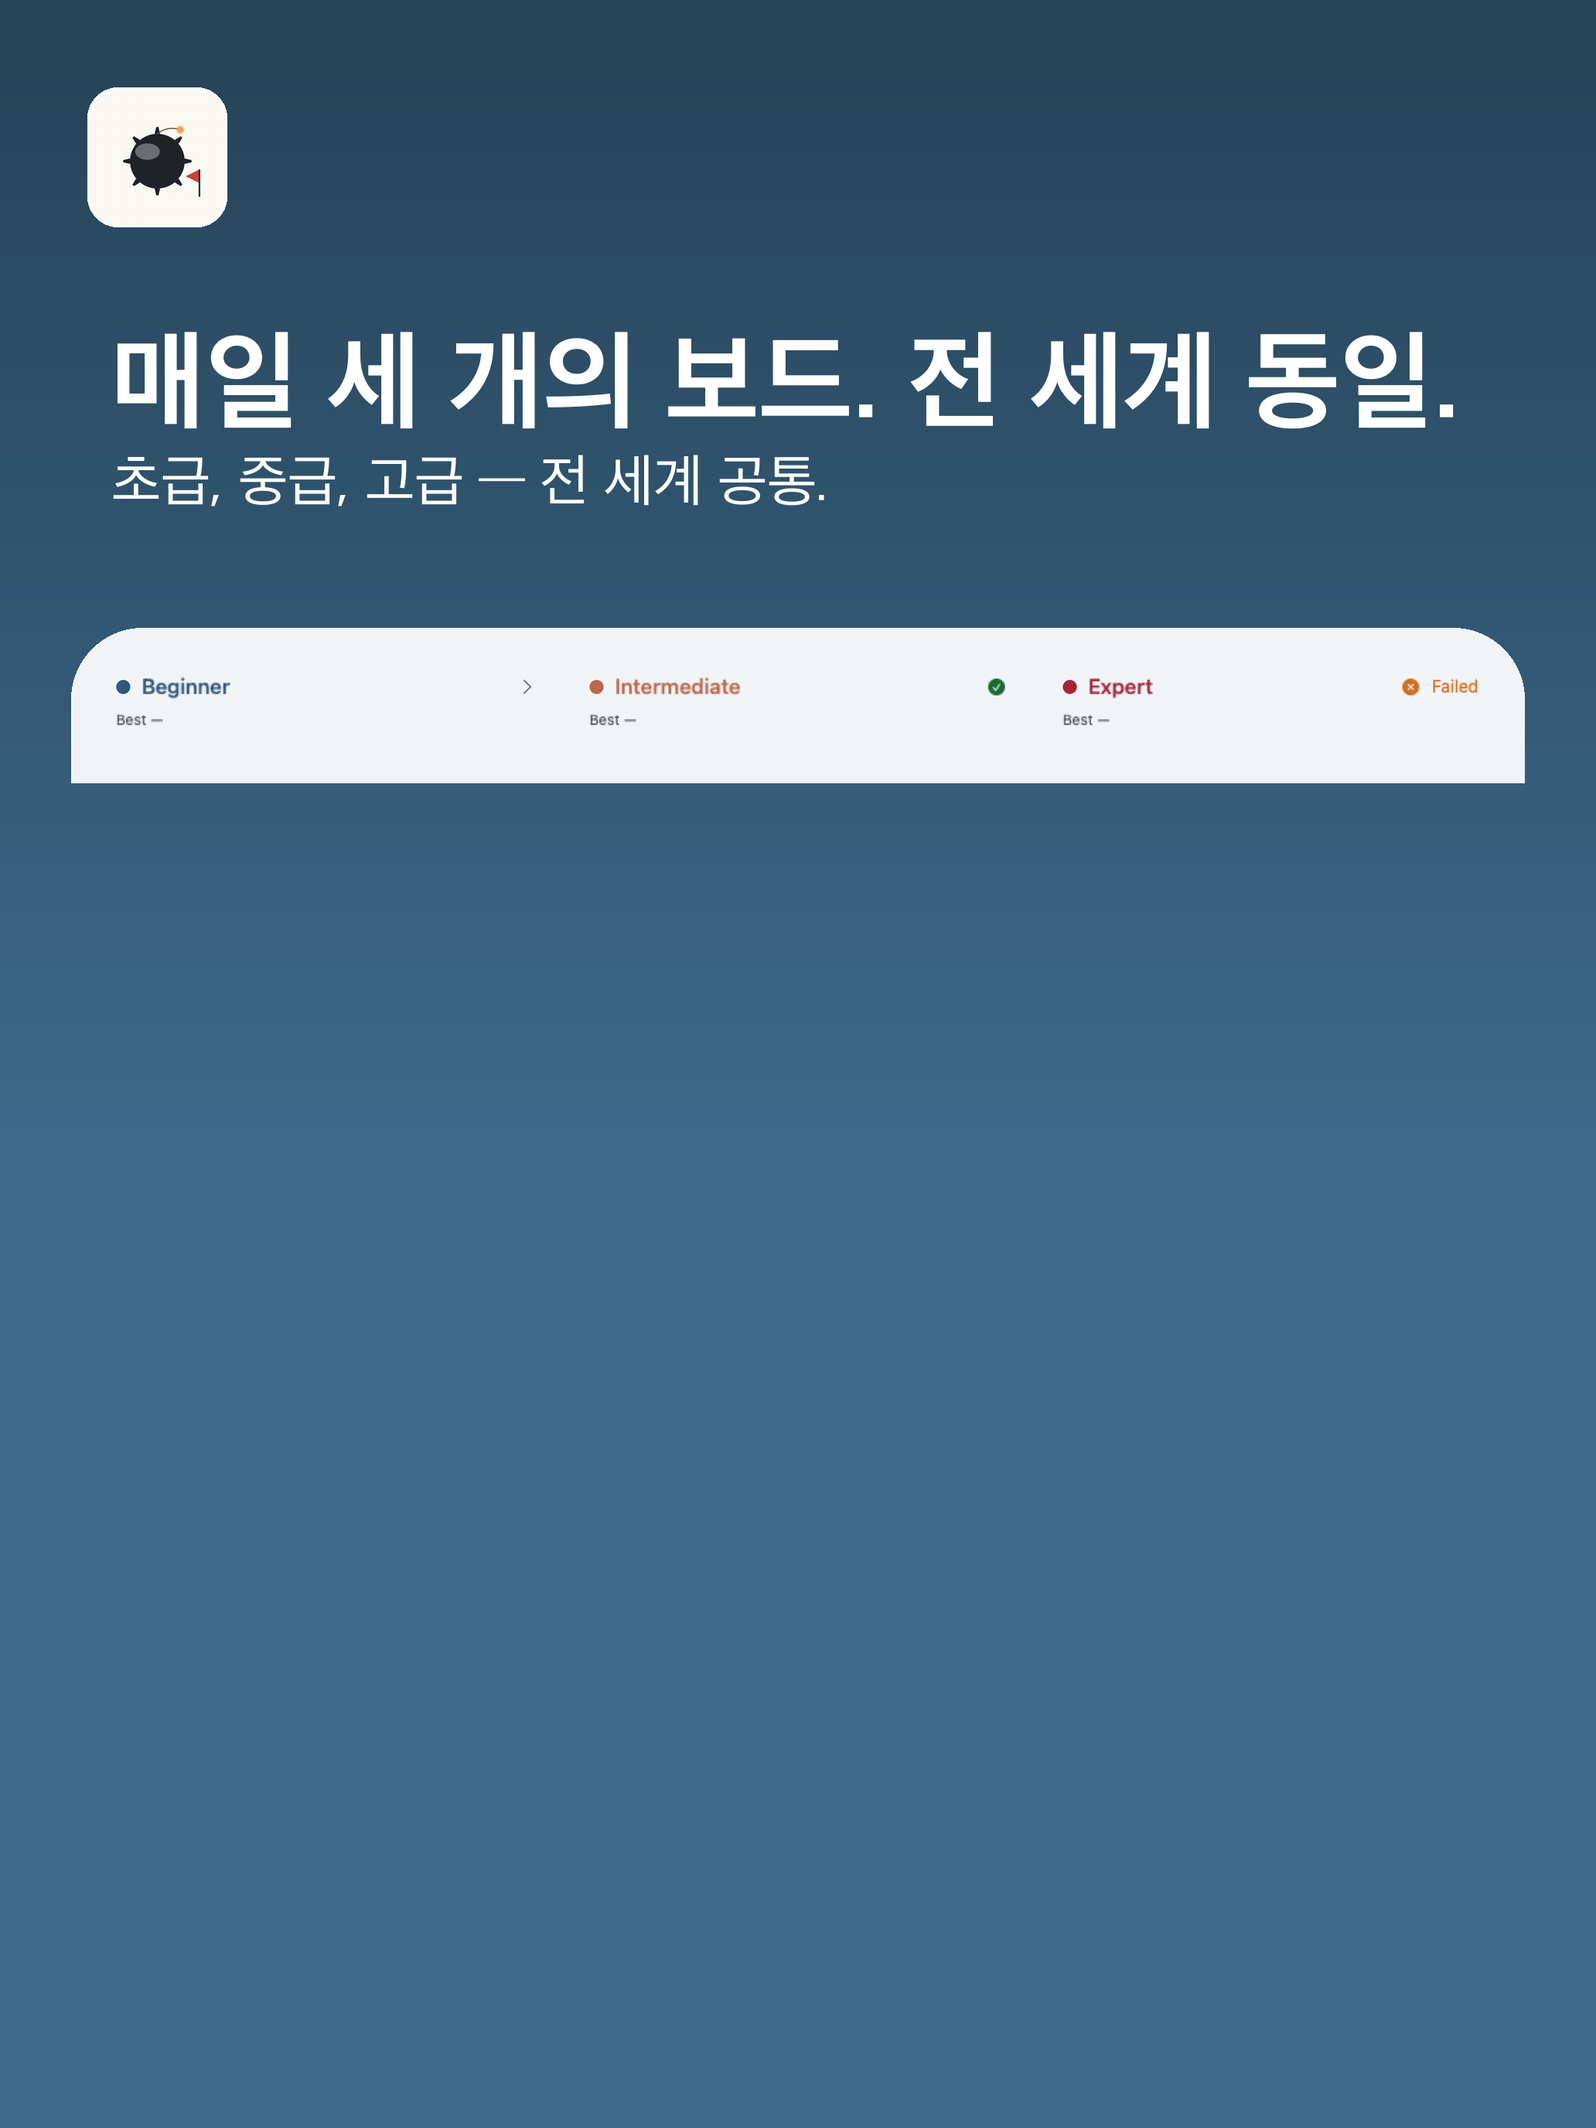
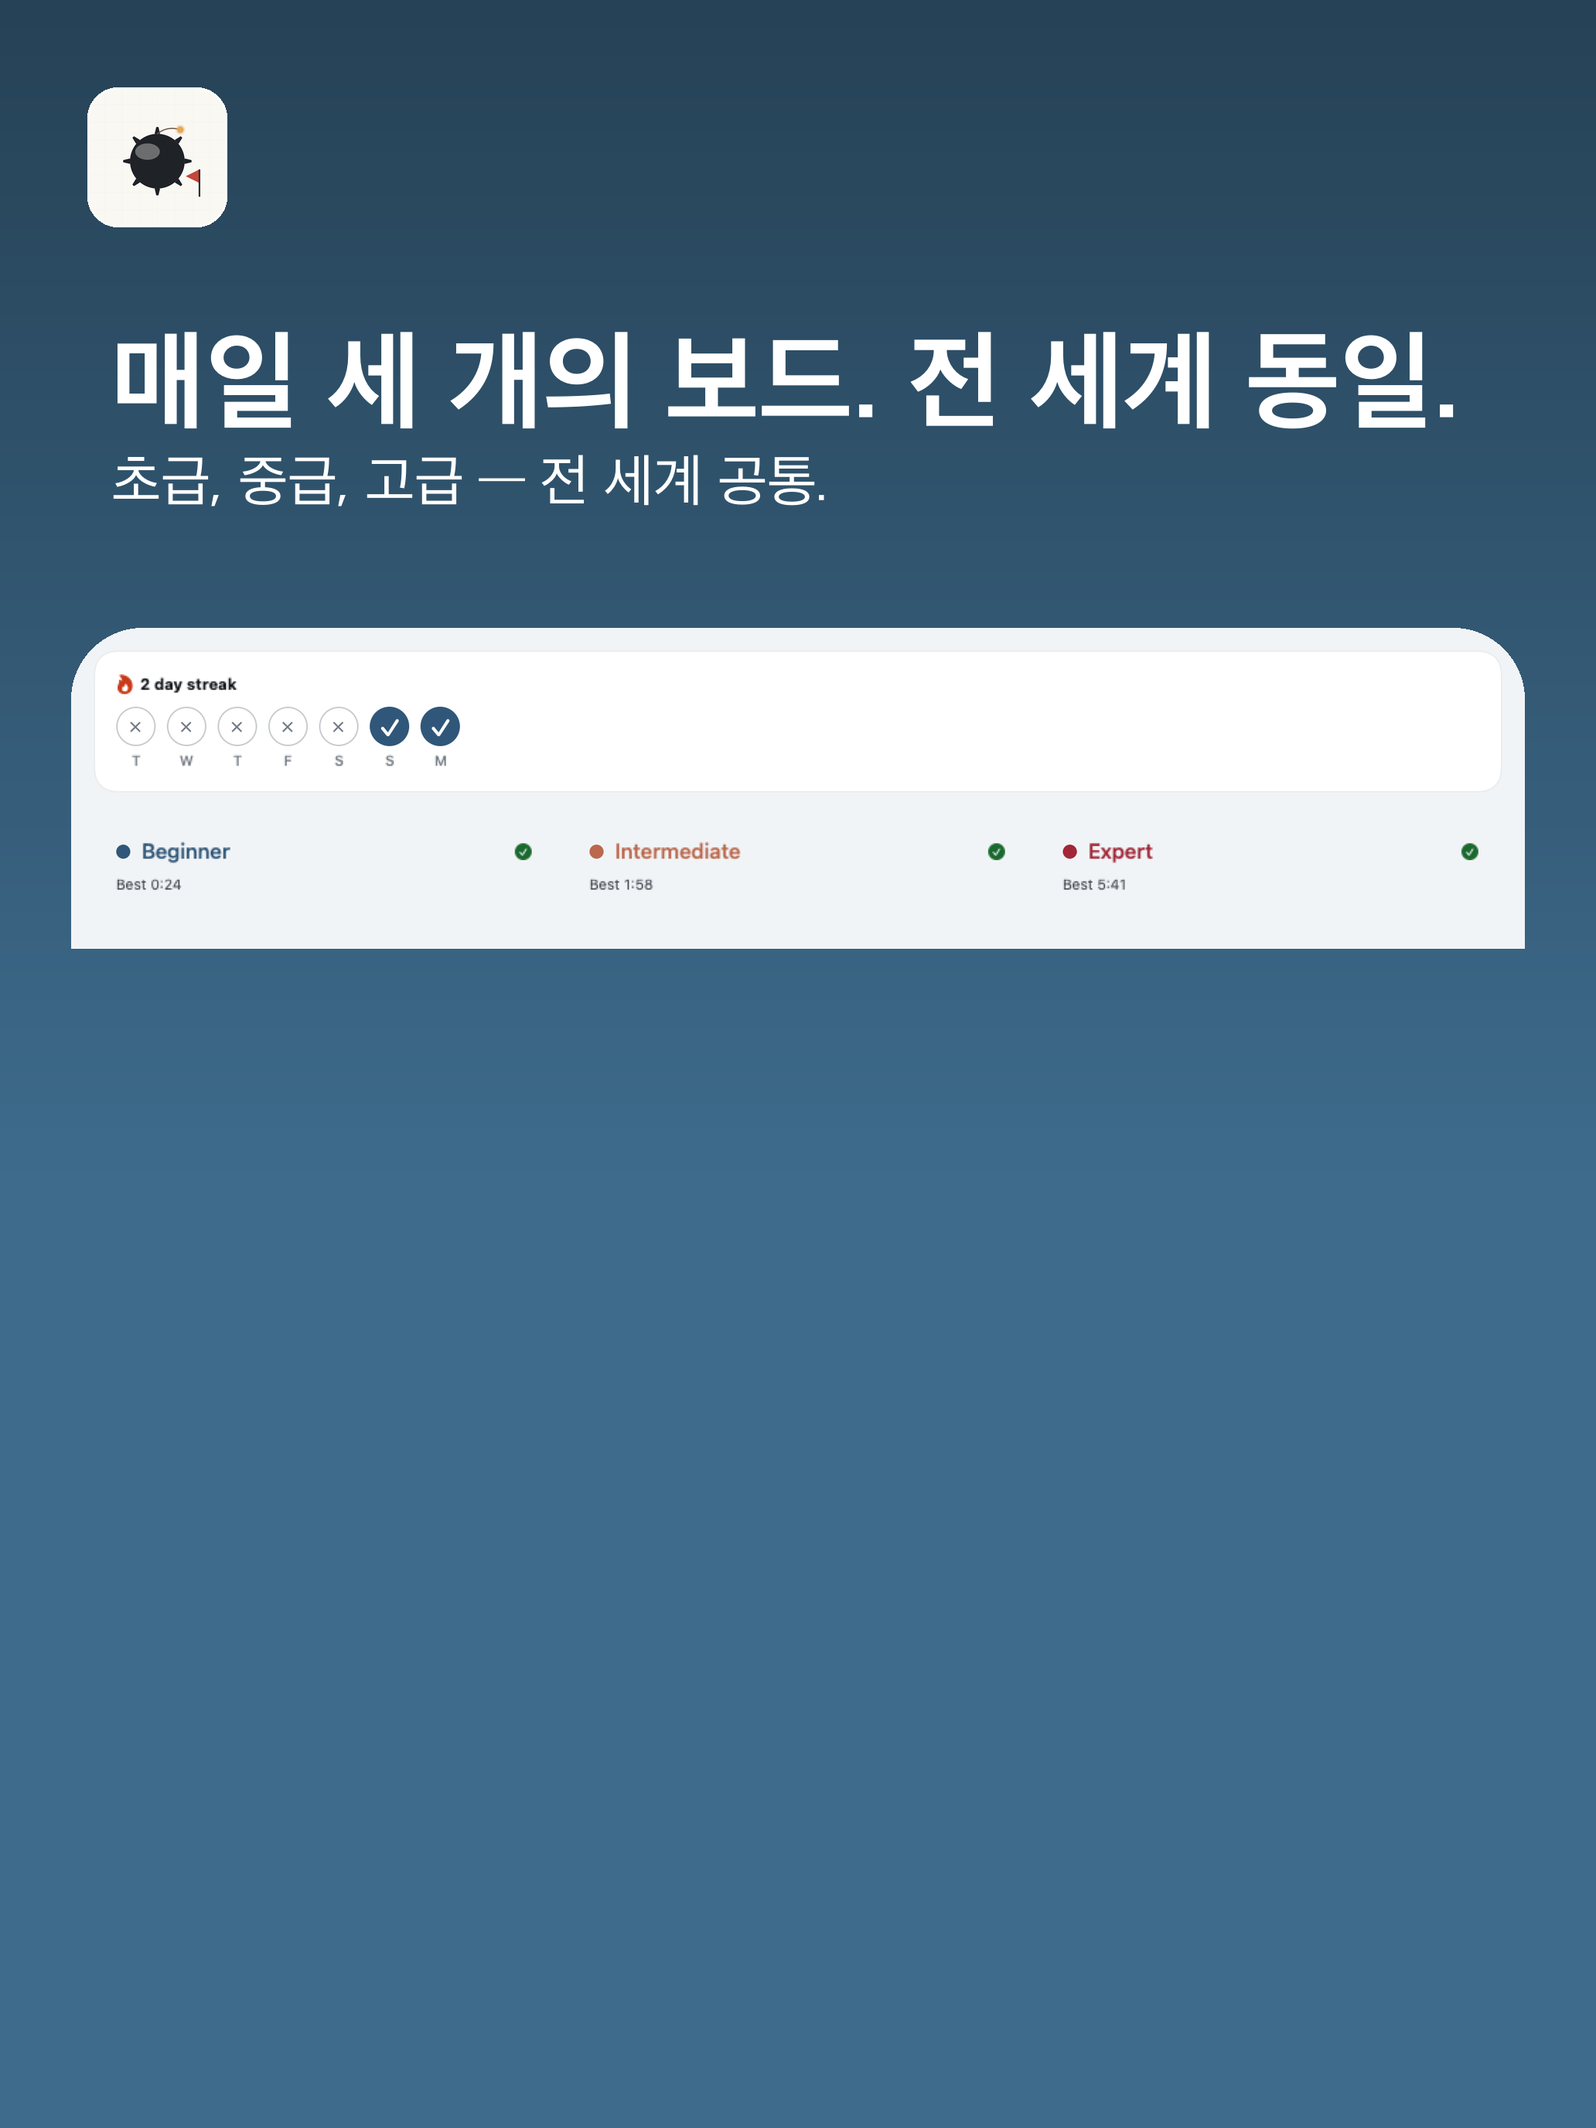
fix(store): address 4 code-review findings on the board/daily fixture PR
1. MS iPad Daily still shipped the exact defect this PR exists to fix: the
   only baseline (`Daily-iPad-light-regular`) has `weekStrip == .unknown`
   (no streak) AND Expert badged Failed — with `detect_content_bottom()`
   correctly cropping it, that composited as a ~7%-tall panel sliver over
   ~75% flat gradient, the worst-emptiness frame in the whole 126-PNG set.
   Records `MinesweeperDailyHubSnapshotTests.snapshotDaily_iPad_light_streak`
   (2-day streak, all three difficulties completed, zero isFailed) and
   wires it into SLOTS in place of the sliver.

2. Thai line-wrap could orphan a combining mark: the character-split
   fallback iterated code points, and `unicodedata.combining()` returns 0
   for most Thai vowel/tone marks (a Unicode quirk — Thai is a visual-order
   script) even though they're category Mn. Reproduced the reported break
   (`ปักธงจุดที่สงสัยว่ามีระเบิด` at 360-365px → a line starting with a bare
   MAI HAN-AKAT) and fixed with a `grapheme_clusters()` helper keyed on
   `unicodedata.category() in (Mn, Mc, Me)`, applied to both the callout-chip
   wrap and the headline/subhead wrap (same bug shape, same fix). Re-verified
   against the exact repro: breaks now land on full clusters.

3. The same wrap function silently discarded any wrapped label past two
   lines (`lines[:2]`) — a future longer translation would lose text with
   every automated check green. Now raises with the offending
   slot/locale/label instead of truncating silently.
[…]

Changed region(s): [[0.031, 0.3125, 0.9612, 0.4688]]

diff --git a/Packages/MinesweeperKit/Tests/MinesweeperUITests/MinesweeperDailyHubSnapshotTests.swift b/Packages/MinesweeperKit/Tests/MinesweeperUITests/MinesweeperDailyHubSnapshotTests.swift
@@ -282,6 +282,66 @@ struct MinesweeperDailyHubSnapshotTests {
     /// wrap); caption + card text scale. Env-injected Dynamic Type snapshots
     /// are a layout pin only (memory: dynamic-type-sim-verify-and-cap); sim
     /// verification is the authority for AX bugs.
+    /// Marketing-fixture gap (feat/store-screenshots-cb round 3): the iPad
+    /// Daily slot's only existing baseline (`Daily-iPad-light-regular`, above)
+    /// has `weekStrip == .unknown` (skeleton dots, no streak) AND Expert
+    /// badged Failed — once this PR's `detect_content_bottom()` crop is
+    /// correctly sizing the panel to its real content, that combination
+    /// renders as the worst-emptiness frame in the whole 126-PNG ASC set (a
+    /// ~7%-tall panel sliver over ~75% flat gradient), and a failure badge
+    /// has no business in a store screenshot regardless. All three
+    /// difficulties completed, no `isFailed` anywhere — same approach as
+    /// #979's macOS Home/Daily additions and this PR's own
+    /// `pencilNotesWithError` Board fixture: record the fuller baseline
+    /// directly instead of shipping the empty one. Same week-strip shape as
+    /// `snapshotDaily_iPhone_light_streak` above (2-day streak), iPad size.
+    private static let completedTrio: [MinesweeperDailyCard] = [
+        MinesweeperDailyCard(
+            entry: MinesweeperDailyEntry(puzzleId: "fixture-beginner", difficulty: .beginner, seed: 1),
+            isCompleted: true,
+            bestTimeSeconds: 24
+        ),
+        MinesweeperDailyCard(
+            entry: MinesweeperDailyEntry(puzzleId: "fixture-intermediate", difficulty: .intermediate, seed: 2),
+            isCompleted: true,
+            bestTimeSeconds: 118
+        ),
+        MinesweeperDailyCard(
+            entry: MinesweeperDailyEntry(puzzleId: "fixture-expert", difficulty: .expert, seed: 3),
+            isCompleted: true,
+            bestTimeSeconds: 341
+        ),
+    ]
+
+    private func dailyHubViewAllCompletedWithStreak() -> some View {
+        let viewModel = MinesweeperDailyHubViewModel(path: .constant([]))
+        viewModel.setStateForTesting(.loaded(Self.completedTrio))
+        // #878: pin the settled (non-pending) treatment — see `dailyHubView`'s
+        // doc above for why this is needed alongside `setStateForTesting`.
+        viewModel.setPhase2PendingForTesting(false)
+        viewModel.setWeekStripForTesting(Self.partialStreakStrip())
+        return NavigationStack {
+            MinesweeperDailyHubView(viewModel: viewModel)
+        }
+    }
+
+    @Test(.enabled(if: !SnapshotEnv.isXcodeCloud))
+    func snapshotDaily_iPad_light_streak() {
+        let host = hostingView(
+            dailyHubViewAllCompletedWithStreak(),
+            size: SnapshotLayouts.iPad,
+            colorScheme: .light,
+            sizeClass: .regular
+        )
+        assertUISnapshot(
+            of: host,
+            as: .image,
+            named: "Daily-iPad-light-streak2",
+            record: SnapshotMode.recordMode
+        )
+        assertViewStructure(of: host, named: "Daily-iPad-light-streak2", record: SnapshotMode.recordMode)
+    }
+
     @Test(.enabled(if: !SnapshotEnv.isXcodeCloud))
     func snapshotDaily_iPhone_light_streak_ax3() {
         let host = hostingView(

diff --git a/scripts/build-ascspec-screenshots.py b/scripts/build-ascspec-screenshots.py
@@ -43,6 +43,7 @@ import argparse
 import hashlib
 import os
 import sys
+import unicodedata
 from pathlib import Path
 from typing import Optional
 
@@ -358,7 +359,8 @@ SLOTS = {
         ],
         "minesweeper": [
             Slot("01-home", "MinesweeperHomeSnapshotTests", "Home-iPad-light-regular", "snapshotHome_iPad_light"),
-            Slot("02-daily", "MinesweeperDailyHubSnapshotTests", "Daily-iPad-light-regular", "snapshotDaily_iPad_light"),
+            Slot("02-daily", "MinesweeperDailyHubSnapshotTests", "Daily-iPad-light-streak2",
+                 "snapshotDaily_iPad_light_streak"),
             Slot("03-board", "MinesweeperBoardSnapshotTests", "Board-iPad-light-beginner-covered",
                  "snapshotBeginnerCovered_iPad_light"),
             Slot("04-completion", "MinesweeperCompletionSnapshotTests", "Completion-iPad-light-win-loaded",
@@ -549,6 +551,31 @@ def paste_icon_badge(canvas: Image.Image, app: str, asc_w: int, margin: int, siz
     )
 
 
+def grapheme_clusters(s: str) -> list[str]:
+    """Split a string into user-perceptible clusters — a base code point
+    plus any trailing Unicode combining marks (category Mn/Mc/Me) that
+    attach to it — instead of raw code points. Thai vowel/tone signs (MAI
+    HAN-AKAT, SARA U, SARA II, MAI EK, ...) are combining marks: iterating
+    `for ch in s` directly can break a line right before one, leaving a
+    bare diacritic floating over nothing on the next line.
+
+    Uses `unicodedata.category()`, NOT `unicodedata.combining()` — Thai is
+    a visual-order script, so Unicode assigns most of its vowel/tone marks
+    combining CLASS 0 (verified: of the 8 Mn marks in a real shipped Thai
+    callout label, only 3 have combining() != 0; category() catches all 8).
+    `combining()` is the wrong test for this script and silently reproduces
+    the exact bug this function exists to fix. Hangul is precomposed and
+    CJK carries no combining marks, so both pass through unchanged either
+    way."""
+    clusters: list[str] = []
+    for ch in s:
+        if clusters and unicodedata.category(ch) in ("Mn", "Mc", "Me"):
+            clusters[-1] += ch
+        else:
+            clusters.append(ch)
+    return clusters
+
+
 def draw_callout_chip(
     canvas: Image.Image,
     anchor_xy: tuple[int, int],
@@ -558,14 +585,15 @@ def draw_callout_chip(
     asc_w: int,
     chip_xy: Optional[tuple[int, int]] = None,
     max_width: Optional[int] = None,
+    slot_name: str = "",
 ) -> None:
     """One Direction-B feature callout: a small dot at the anchor (the actual
     UI feature being called out), a leader line, and a rounded pill chip
     carrying the (per-locale) label.
 
     `chip_xy`, when given, is the chip's own target position (verified empty
-    canvas — grid geometry measured directly off the baseline, not guessed;
-    #979) and the leader line is drawn straight from the anchor dot to the
+    canvas — grid geometry measured directly off the baseline, not guessed)
+    and the leader line is drawn straight from the anchor dot to the
     chip instead of assuming "chip sits directly below the dot". When
     omitted, falls back to the original below-anchor default (chip centered
     under the dot, dropped by a fixed offset) for callouts that already have
@@ -619,7 +647,7 @@ def draw_callout_chip(
             if measure(word)[0] <= max_line_w:
                 current = word
             else:
-                for ch in word:
+                for ch in grapheme_clusters(word):
                     test = current + ch
                     if measure(test)[0] <= max_line_w or not current:
                         current = test
@@ -628,9 +656,22 @@ def draw_callout_chip(
                         current = ch
         if current:
             lines.append(current)
-        lines = lines[:2] or [label]  # cap at two lines — a third means the
-        # chip is too narrow for any locale's text and needs a wider slot,
-        # not more wrapping.
+        lines = lines or [label]  # degenerate empty-label case: keep the
+        # pre-existing fallback rather than let max() below crash on [].
+        if len(lines) > 2:
+            # A third line means the chip is too narrow for this locale's
+            # text and needs a wider slot, not more wrapping — silently
+            # dropping the tail would ship truncated user-visible copy with
+            # every automated check still green (exactly how this pipeline's
+            # earlier chip-overlap defects slipped through). Fail loudly
+            # instead so the next locale/copy change that overflows here
+            # gets caught at generation time, not by someone eyeballing a
+            # screenshot after the fact.
+            raise ValueError(
+                f"callout chip label wraps to {len(lines)} lines (max 2) — "
+                f"slot={slot_name!r} locale={locale!r} label={label!r}; "
+                f"widen chip_max_w or shorten the translation"
+            )
         text_w = max(measure(line)[0] for line in lines)
         _, text_h, top_bearing = measure(lines[0])
 
@@ -670,7 +711,8 @@ def build_asc_image(baseline_path: Path,
                     asc_w: int = ASC_W,
                     asc_h: int = ASC_H,
                     callouts: Optional[list[dict]] = None,
-                    device: str = "iphone-6.9") -> Image.Image:
+                    device: str = "iphone-6.9",
+                    slot_name: str = "") -> Image.Image:
     """
     Compose one ASC-spec RGB PNG at the given canvas size — Direction C
     (full-bleed brand-gradient ground + headline set directly into the color +
@@ -736,7 +778,7 @@ def build_asc_image(baseline_path: Path,
             if text_w(word, font) <= max_width:
                 current = word
             else:
-                for ch in word:
+                for ch in grapheme_clusters(word):
                     test = current + ch
                     if text_w(test, font) <= max_width or not current:
                         current = test
@@ -832,7 +874,7 @@ def build_asc_image(baseline_path: Path,
             chip_max_w_frac = callout.get("chip_max_w", {}).get(device)
             max_width = int(chip_max_w_frac * asc_w) if chip_max_w_frac else None
             draw_callout_chip(canvas, anchor_xy, label, locale, accent_color, asc_w,
-                               chip_xy=chip_xy, max_width=max_width)
+                               chip_xy=chip_xy, max_width=max_width, slot_name=slot_name)
 
     # ── Final sanity: canvas must be RGB (no alpha) ───────────────────────────
     assert canvas.mode == "RGB", f"Expected RGB, got {canvas.mode}"
@@ -881,6 +923,7 @@ def generate_all(dry_run: bool = False) -> list[dict]:
                             baseline_path, headline, subhead, app, locale,
                             asc_w=dev["w"], asc_h=dev["h"],
                             callouts=slot_callouts, device=device,
+                            slot_name=slot.name,
                         )
                         img.save(str(out_path), "PNG", optimize=False)
 

diff --git a/docs/app-store/screenshot-strategy.md b/docs/app-store/screenshot-strategy.md
@@ -234,10 +234,28 @@ Swapped:
   streak strip above the same Beginner/Intermediate/Expert rows (the
   Intermediate-done/Expert-Failed badges were already present in `compact`;
   the swap only adds real positive content, introduces nothing new negative).
+- **Minesweeper Daily Hub (iPad) — round-2 code-review finding, resolved.**
+  The only baseline that existed, `Daily-iPad-light-regular`, has
+  `weekStrip == .unknown` (skeleton dots, no streak) AND Expert badged
+  Failed — once `detect_content_bottom()` correctly crops the panel to its
+  real (tiny) content, that combination composited as the worst-emptiness
+  frame in the whole 126-PNG set (~7% of canvas height of panel, ~75% flat
+  gradient below), and a failure badge has no business in store copy
+  regardless of emptiness. No honest fuller iPad baseline existed to swap
+  to, so one was recorded:
+  `MinesweeperDailyHubSnapshotTests.snapshotDaily_iPad_light_streak` — same
+  2-day streak strip as the iPhone `streak2` swap above, all three
+  difficulties completed (Beginner/Intermediate/Expert), zero `isFailed`.
+  Wired into `SLOTS` in place of `Daily-iPad-light-regular`. No CALLOUTS
+  entry exists for `("minesweeper", "02-daily")` on either device, so no
+  chip-geometry re-verification was needed.
 
 Audited, kept as-is (no honest fuller candidate exists):
-- **Both apps, iPad, Daily Hub**: only one baseline exists per app (no
-  streak/all-done iPad variant recorded).
+- **Sudoku, iPad, Daily Hub**: only one baseline exists (`unfinished`, no
+  streak/all-done iPad variant recorded) — unlike the Minesweeper iPad case
+  above, its content isn't the worst-emptiness frame in the set, so it
+  wasn't escalated; still an open gap if a fuller iPad fixture is ever
+  wanted.
 - **Sudoku Board**: `inProgress` (half-filled grid + one red error cell) is
   the *message-correct* choice, not the emptiest — the Direction-B callout
   chip is anchored to that red error cell to sell "catches mistakes
